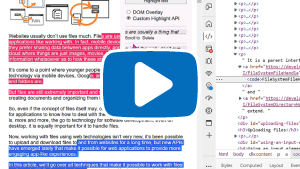
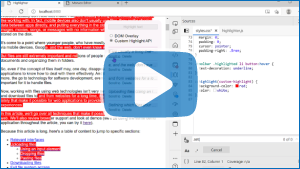
Added borders to thumbnails

diff --git a/microsoft-edge/dev-videos/index.md b/microsoft-edge/dev-videos/index.md
@@ -63,7 +63,7 @@ For more information see [Debug DOM memory leaks with the Detached Elements tool
 
 _Published on 22 Nov 2021._
 
-[![Thumbnail image for the Eye Dropper API video](./images/eye-dropper.png)](https://www.youtube.com/watch?v=XZUEnUbI7dE)
+[![Thumbnail image for the Eye Dropper API video](./images/eyedropper-api.png)](https://www.youtube.com/watch?v=XZUEnUbI7dE)
 
 The Microsoft Edge team specified and implemented the new EyeDropper API in collaboration with the Chromium open-source project. Provide feedback at [Issues - WICG/eyedropper | github.com](https://github.com/WICG/eyedropper-api/issues).
 
